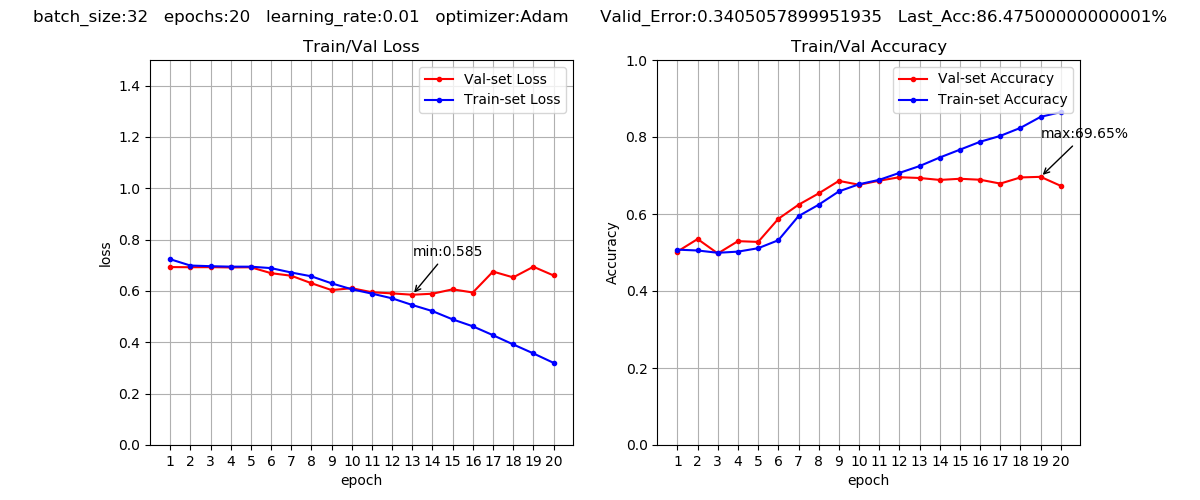
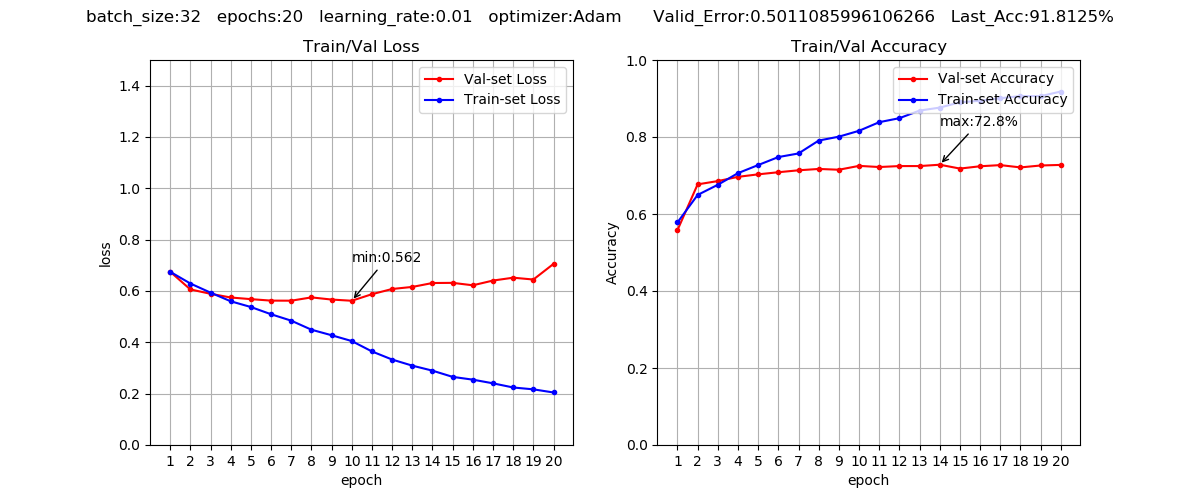
Last Accuracy: 0.918125 Valid error: 0.5011085996106266

diff --git a/main.py b/main.py
@@ -23,8 +23,8 @@ freq = 440  # Hz
 
 config = tf.ConfigProto()
 
-config.gpu_options.allow_growth = True
-# config.gpu_options.per_process_gpu_memory_fraction = 0.8
+#config.gpu_options.allow_growth = True
+config.gpu_options.per_process_gpu_memory_fraction = 0.6
 
 session = tf.Session(config=config)
 
@@ -163,15 +163,15 @@ Valid error: 0.9670988367386162
 
         nUnit = 1024
         model.add(Flatten())
-        model.add(Dense(1024, activation='relu', kernel_initializer='glorot_uniform', bias_initializer='glorot_uniform'))
-        model.add(Dropout(nDropout))
-        model.add(Dense(512, activation='relu', kernel_initializer='glorot_uniform', bias_initializer='glorot_uniform'))
-        model.add(Dropout(nDropout))
-        model.add(Dense(512, activation='relu', kernel_initializer='glorot_uniform', bias_initializer='glorot_uniform'))
-        model.add(Dropout(nDropout))
-        model.add(Dense(512, activation='relu', kernel_initializer='glorot_uniform', bias_initializer='glorot_uniform'))
-        model.add(Dropout(nDropout))
-        model.add(Dense(256, activation='relu', kernel_initializer='glorot_uniform', bias_initializer='glorot_uniform'))
+        # model.add(Dense(1024, activation='relu', kernel_initializer='glorot_uniform', bias_initializer='glorot_uniform'))
+        # model.add(Dropout(nDropout))
+        # model.add(Dense(512, activation='relu', kernel_initializer='glorot_uniform', bias_initializer='glorot_uniform'))
+        # model.add(Dropout(nDropout))
+        # model.add(Dense(512, activation='relu', kernel_initializer='glorot_uniform', bias_initializer='glorot_uniform'))
+        # model.add(Dropout(nDropout))
+        # model.add(Dense(512, activation='relu', kernel_initializer='glorot_uniform', bias_initializer='glorot_uniform'))
+        # model.add(Dropout(nDropout))
+        model.add(Dense(128, activation='relu', kernel_initializer='glorot_uniform', bias_initializer='glorot_uniform'))
         model.add(Dropout(nDropout))
         '''
                 model.add(Dense(2048, activation='relu', kernel_initializer = 'glorot_uniform', bias_initializer = 'glorot_uniform'))
